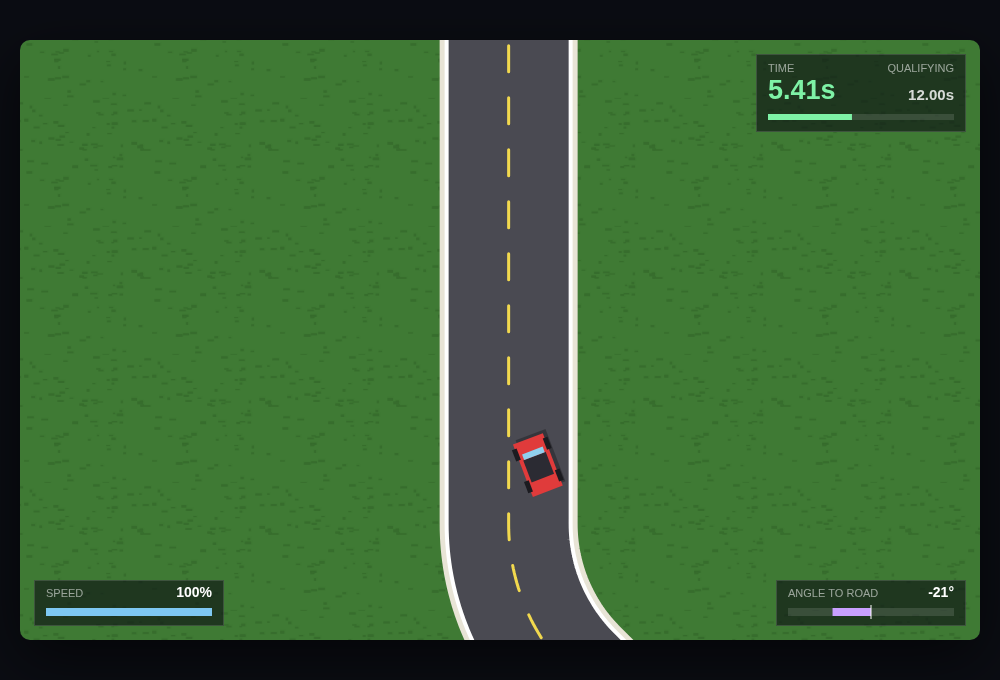
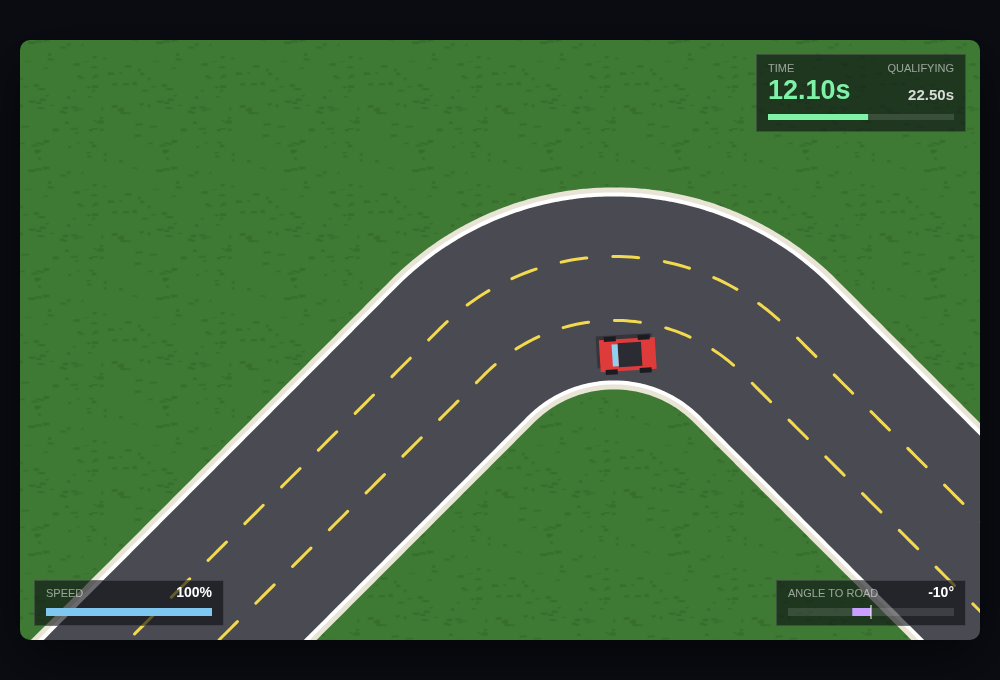
Widen road to 3 lanes and extend Track 1 with 90 degree turns
Road is now 6 car widths (192px, was 4 / 128px) drawn as three lanes with
two dashed dividers rather than a single centre line. The renderer derives
the dividers from cfg.lanes, so the marking follows the width.

Track 1 keeps its original layout and repeats it with 90 degree turns:

  Part 1  straight 1s | L45 + straight 3s | R45 + straight 3s | L45 + straight 3s
  Part 2  straight 1s | L90 + straight 3s | R90 + straight 3s | L90 + straight 3s

20s of track, up from 10s.

The 90 degree turns take 0.8s of arc rather than 0.4s, so every corner on
the track shares the same 214px radius. Taken in 0.4s a 90 degree turn
would have a 107px radius against the new 96px half-width, leaving an 11px
inner edge — a kink, not a corner.

Qualifying raised to 22.50s. A clean lap is 20.27s, leaving ~11% slack,
the same proportional margin the 10s version had at 12.00s against a
10.82s lap.

Verified: the centreline's closest approach between distant parts of the
track is 490px against a 192px road, so the layout does not overlap itself
despite turning 135 degrees net left.

The 90 degree corners are drivable at the default 45 degree Turning Angle
— a clean lap stays on the road with 75px of peak lateral against a 96px
edge — and they are harder than the 45s: a hands-off lap now spends 20s of
its 32s on the grass and ends 181px wide.

browser-test.js now reads the expected qualifying time from the game
rather than hardcoding it, so changing the track no longer breaks it.
[…]

diff --git a/config.js b/config.js
@@ -103,7 +103,11 @@ BR.DEFAULT_CONFIG = {
 
   carWidth: 32,          // world pixels
   carLength: 56,         // world pixels
-  roadWidthInCars: 4,    // road width measured in car widths -> 4 * 32 = 128px
+
+  // Road width in car widths. 3 lanes at 2 car widths each -> 6 * 32 = 192px.
+  // Lane dividers are drawn at +/- roadWidth/6, splitting it into three.
+  roadWidthInCars: 6,
+  lanes: 3,
 
   // How far ahead of the car the camera looks, as a fraction of a screen
   // height, at Full Speed. 0 keeps the car dead centre.
@@ -116,14 +120,23 @@ BR.DEFAULT_CONFIG = {
   //   { type: 'straight', seconds }
   //   { type: 'turn', dir: -1 (left) | +1 (right), degrees, seconds }
   //
-  // Track 1 layout, per the design:
-  //   straight 1s | left + straight 3s | right + straight 3s | left 45 + straight 3s
-  // = 10s of track. Add roughly 1s lost to the standing start and a clean run
-  // lands just under the 12s qualifying time.
+  // Track 1 is the original layout followed by the same layout again with 90
+  // degree turns instead of 45:
+  //
+  //   Part 1  straight 1s | L45 + straight 3s | R45 + straight 3s | L45 + straight 3s
+  //   Part 2  straight 1s | L90 + straight 3s | R90 + straight 3s | L90 + straight 3s
+  //
+  // = 20s of track. Every corner has the same 214px radius: the 90 degree
+  // turns take twice the arc time (0.8s vs 0.4s) for twice the angle, which
+  // keeps the road from kinking. At 0.4s a 90 degree turn would have a 107px
+  // radius against a 96px half-width, leaving an 11px inner edge — undrivable.
   track: {
     name: 'Track 1',
-    qualifyingTime: 12.0,  // seconds, PER LAP
+    // A clean lap is ~20.3s, so this leaves ~11% slack — the same proportional
+    // margin the 10s version had at 12.0s against a 10.8s lap.
+    qualifyingTime: 22.5,  // seconds, PER LAP
     segments: [
+      /* --- Part 1: 45 degree turns --- */
       { type: 'straight', seconds: 1.0 },
 
       { type: 'turn', dir: -1, degrees: 45, seconds: 0.4 },
@@ -133,7 +146,19 @@ BR.DEFAULT_CONFIG = {
       { type: 'straight', seconds: 2.6 },
 
       { type: 'turn', dir: -1, degrees: 45, seconds: 0.4 },
-      { type: 'straight', seconds: 2.6 }
+      { type: 'straight', seconds: 2.6 },
+
+      /* --- Part 2: the same layout with 90 degree turns --- */
+      { type: 'straight', seconds: 1.0 },
+
+      { type: 'turn', dir: -1, degrees: 90, seconds: 0.8 },
+      { type: 'straight', seconds: 2.2 },
+
+      { type: 'turn', dir: +1, degrees: 90, seconds: 0.8 },
+      { type: 'straight', seconds: 2.2 },
+
+      { type: 'turn', dir: -1, degrees: 90, seconds: 0.8 },
+      { type: 'straight', seconds: 2.2 }
     ]
   }
 };

diff --git a/src/render.js b/src/render.js
@@ -10,7 +10,7 @@
     verge:      '#e8e4d6',
     asphalt:    '#4a4a52',
     asphaltEdge:'#ffffff',
-    centreLine: '#f2d94e',
+    laneLine:   '#f2d94e',
     carBody:    '#e03b3b',
     carRoof:    '#2b2b33',
     carGlass:   '#8fd0ee'
@@ -95,6 +95,22 @@
     ctx.beginPath();
     ctx.moveTo(pts[range.from].x, pts[range.from].y);
     for (var i = range.from + 1; i <= range.to; i++) ctx.lineTo(pts[i].x, pts[i].y);
+  };
+
+  /* The centreline shifted sideways by `offset` px (positive = to the right of
+   * the direction of travel). Used for the lane dividers. Safe because the
+   * offsets are far smaller than the 214px corner radius, so the shifted path
+   * cannot fold back on itself. */
+  Renderer.prototype.traceOffsetPath = function (range, offset) {
+    var ctx = this.ctx;
+    var pts = this.track.points;
+    ctx.beginPath();
+    for (var i = range.from; i <= range.to; i++) {
+      var p = pts[i];
+      var x = p.x - Math.sin(p.h) * offset;
+      var y = p.y + Math.cos(p.h) * offset;
+      if (i === range.from) ctx.moveTo(x, y); else ctx.lineTo(x, y);
+    }
   };
 
   /* A checkered band laid across the road at distance `s`. */
@@ -194,12 +210,17 @@
       ctx.lineWidth = this.track.halfWidth * 2 - 8;
       ctx.stroke();
 
-      // Dashed centre line.
-      this.tracePath(range);
+      // Dashed lane dividers. A road of `lanes` lanes needs lanes-1 dividers,
+      // evenly spaced across the width.
+      var lanes = this.cfg.lanes || 2;
       ctx.setLineDash([26, 26]);
-      ctx.strokeStyle = COLOURS.centreLine;
+      ctx.strokeStyle = COLOURS.laneLine;
       ctx.lineWidth = 3;
-      ctx.stroke();
+      for (var n = 1; n < lanes; n++) {
+        var offset = (n / lanes - 0.5) * this.track.halfWidth * 2;
+        this.traceOffsetPath(range, offset);
+        ctx.stroke();
+      }
       ctx.setLineDash([]);
     }
 

diff --git a/tools/browser-test.js b/tools/browser-test.js
@@ -89,14 +89,19 @@ function shot(page, name) {
   }
 
   function run() {
+    var qualifying = null;
     console.log('\n=== Title screen ===\n');
 
     return state().then(function (s0) {
       check('starts on the title screen', s0.phase === 'title');
+      qualifying = s0.qualifying;
       return page.textContent('#config-summary');
     }).then(function (summary) {
+      // Read the expected time from the game rather than hardcoding it, so
+      // changing the track does not require editing this test.
       check('summary names the track and qualifying time',
-            /Track 1/.test(summary) && /12\.00s/.test(summary), summary.trim());
+            /Track 1/.test(summary) && summary.indexOf(qualifying.toFixed(2) + 's') > -1,
+            summary.trim());
 
       // Every slider must reach the live config and show its own readout.
       var sliders = [

diff --git a/README.md b/README.md
@@ -44,16 +44,16 @@ offset = car heading − road heading at the car's position,   |offset| ≤ Turn
   until it hits the Turning Angle. Because the limit is on the *offset*, the car
   can never rotate more than that away from the road and can never spin around.
 * Releasing the keys lets the offset fall back towards **0**, which means
-  "pointing the same way as this part of the track". So after a 45° left-hander
+  "pointing the same way as this part of the track". So after a left-hander
   the car settles at 45° in world terms — which is 0° relative to the road — and
   holds it. That is the behaviour the design asks for.
 * That fall-back is **proportional**, not a fixed rate: `returnRateDeg` is the
   speed at 45° of offset, and it scales down linearly from there. A car at full
   lock snaps back hard; a nearly-straight car is barely nudged.
-* Even so, the car **cannot follow a corner unaided**. The bends turn at 45°
-  over 0.4s = 112°/s. Let go mid-corner and you run ~100px wide on a road whose
-  edge is 64px from the centre, and spend about 11s of a 12s lap on the grass.
-  Corners have to be driven.
+* Even so, the car **cannot follow a corner unaided**. Every bend turns at
+  112°/s. Let go mid-corner and you run ~180px wide on a road whose edge is
+  96px from the centre, and spend about 20s of a 32s lap on the grass. Corners
+  have to be driven.
 
 Why proportional return matters: a *constant* rate ties responsiveness to
 difficulty and you cannot have both. Fast enough to feel good (≥80°/s) and a
@@ -67,7 +67,7 @@ this game, and it was wrong. Proportional return separates the two concerns:
 | Turn-in to full lock | 0.22s | **0.17s** |
 | Half the angle back | 0.57s | **0.18s** |
 | Fully settled | 1.06s | **0.71s** |
-| Hands-off lap | 12.4s on grass | 11.4s on grass |
+| Hands-off lap | fails | fails |
 
 `tools/simulate.js` asserts both halves — the corners stay demanding *and* the
 steering stays responsive — so neither can regress by accident.
@@ -79,22 +79,31 @@ off the road the car is lifted back onto the racing line at half speed
 
 ## Track 1
 
-| Section | |
-| --- | --- |
-| Straight | 1s |
-| Left 45° + straight | 3s |
-| Right 45° + straight | 3s |
-| Left 45° + straight | 3s |
-| **Qualifying time** | **12.00s** |
+The original layout, then the same layout again with 90° turns:
 
-Road width is 4 car widths (128px). Grass either side.
+| Part 1 | | Part 2 | |
+| --- | --- | --- | --- |
+| Straight | 1s | Straight | 1s |
+| Left 45° + straight | 3s | Left 90° + straight | 3s |
+| Right 45° + straight | 3s | Right 90° + straight | 3s |
+| Left 45° + straight | 3s | Left 90° + straight | 3s |
+| | | **Qualifying time** | **22.50s** |
+
+20s of track. Road is **3 lanes** — 6 car widths (192px) with two dashed
+dividers. Grass either side.
+
+Every corner has the same **214px radius**: the 90° turns take twice the arc
+time (0.8s vs 0.4s) for twice the angle. That matters — a 90° turn taken in
+0.4s would have a 107px radius against a 96px half-width, leaving an 11px
+inner edge, which is a kink rather than a corner.
 
 Sections are defined in **seconds at full speed**, not in pixels, so changing
 Full Speed makes the track physically longer and a clean lap still takes about
 the same time — it just feels faster and gives you less time to react.
 
-A clean lap is about **10.8s**, so qualifying leaves roughly 1.2s of slack. One
-trip onto the grass costs more than that.
+A clean lap is about **20.3s**, so qualifying leaves roughly 2.2s of slack —
+the same ~11% margin the shorter version had. One trip onto the grass costs
+more than that.
 
 ## Configuration
 
